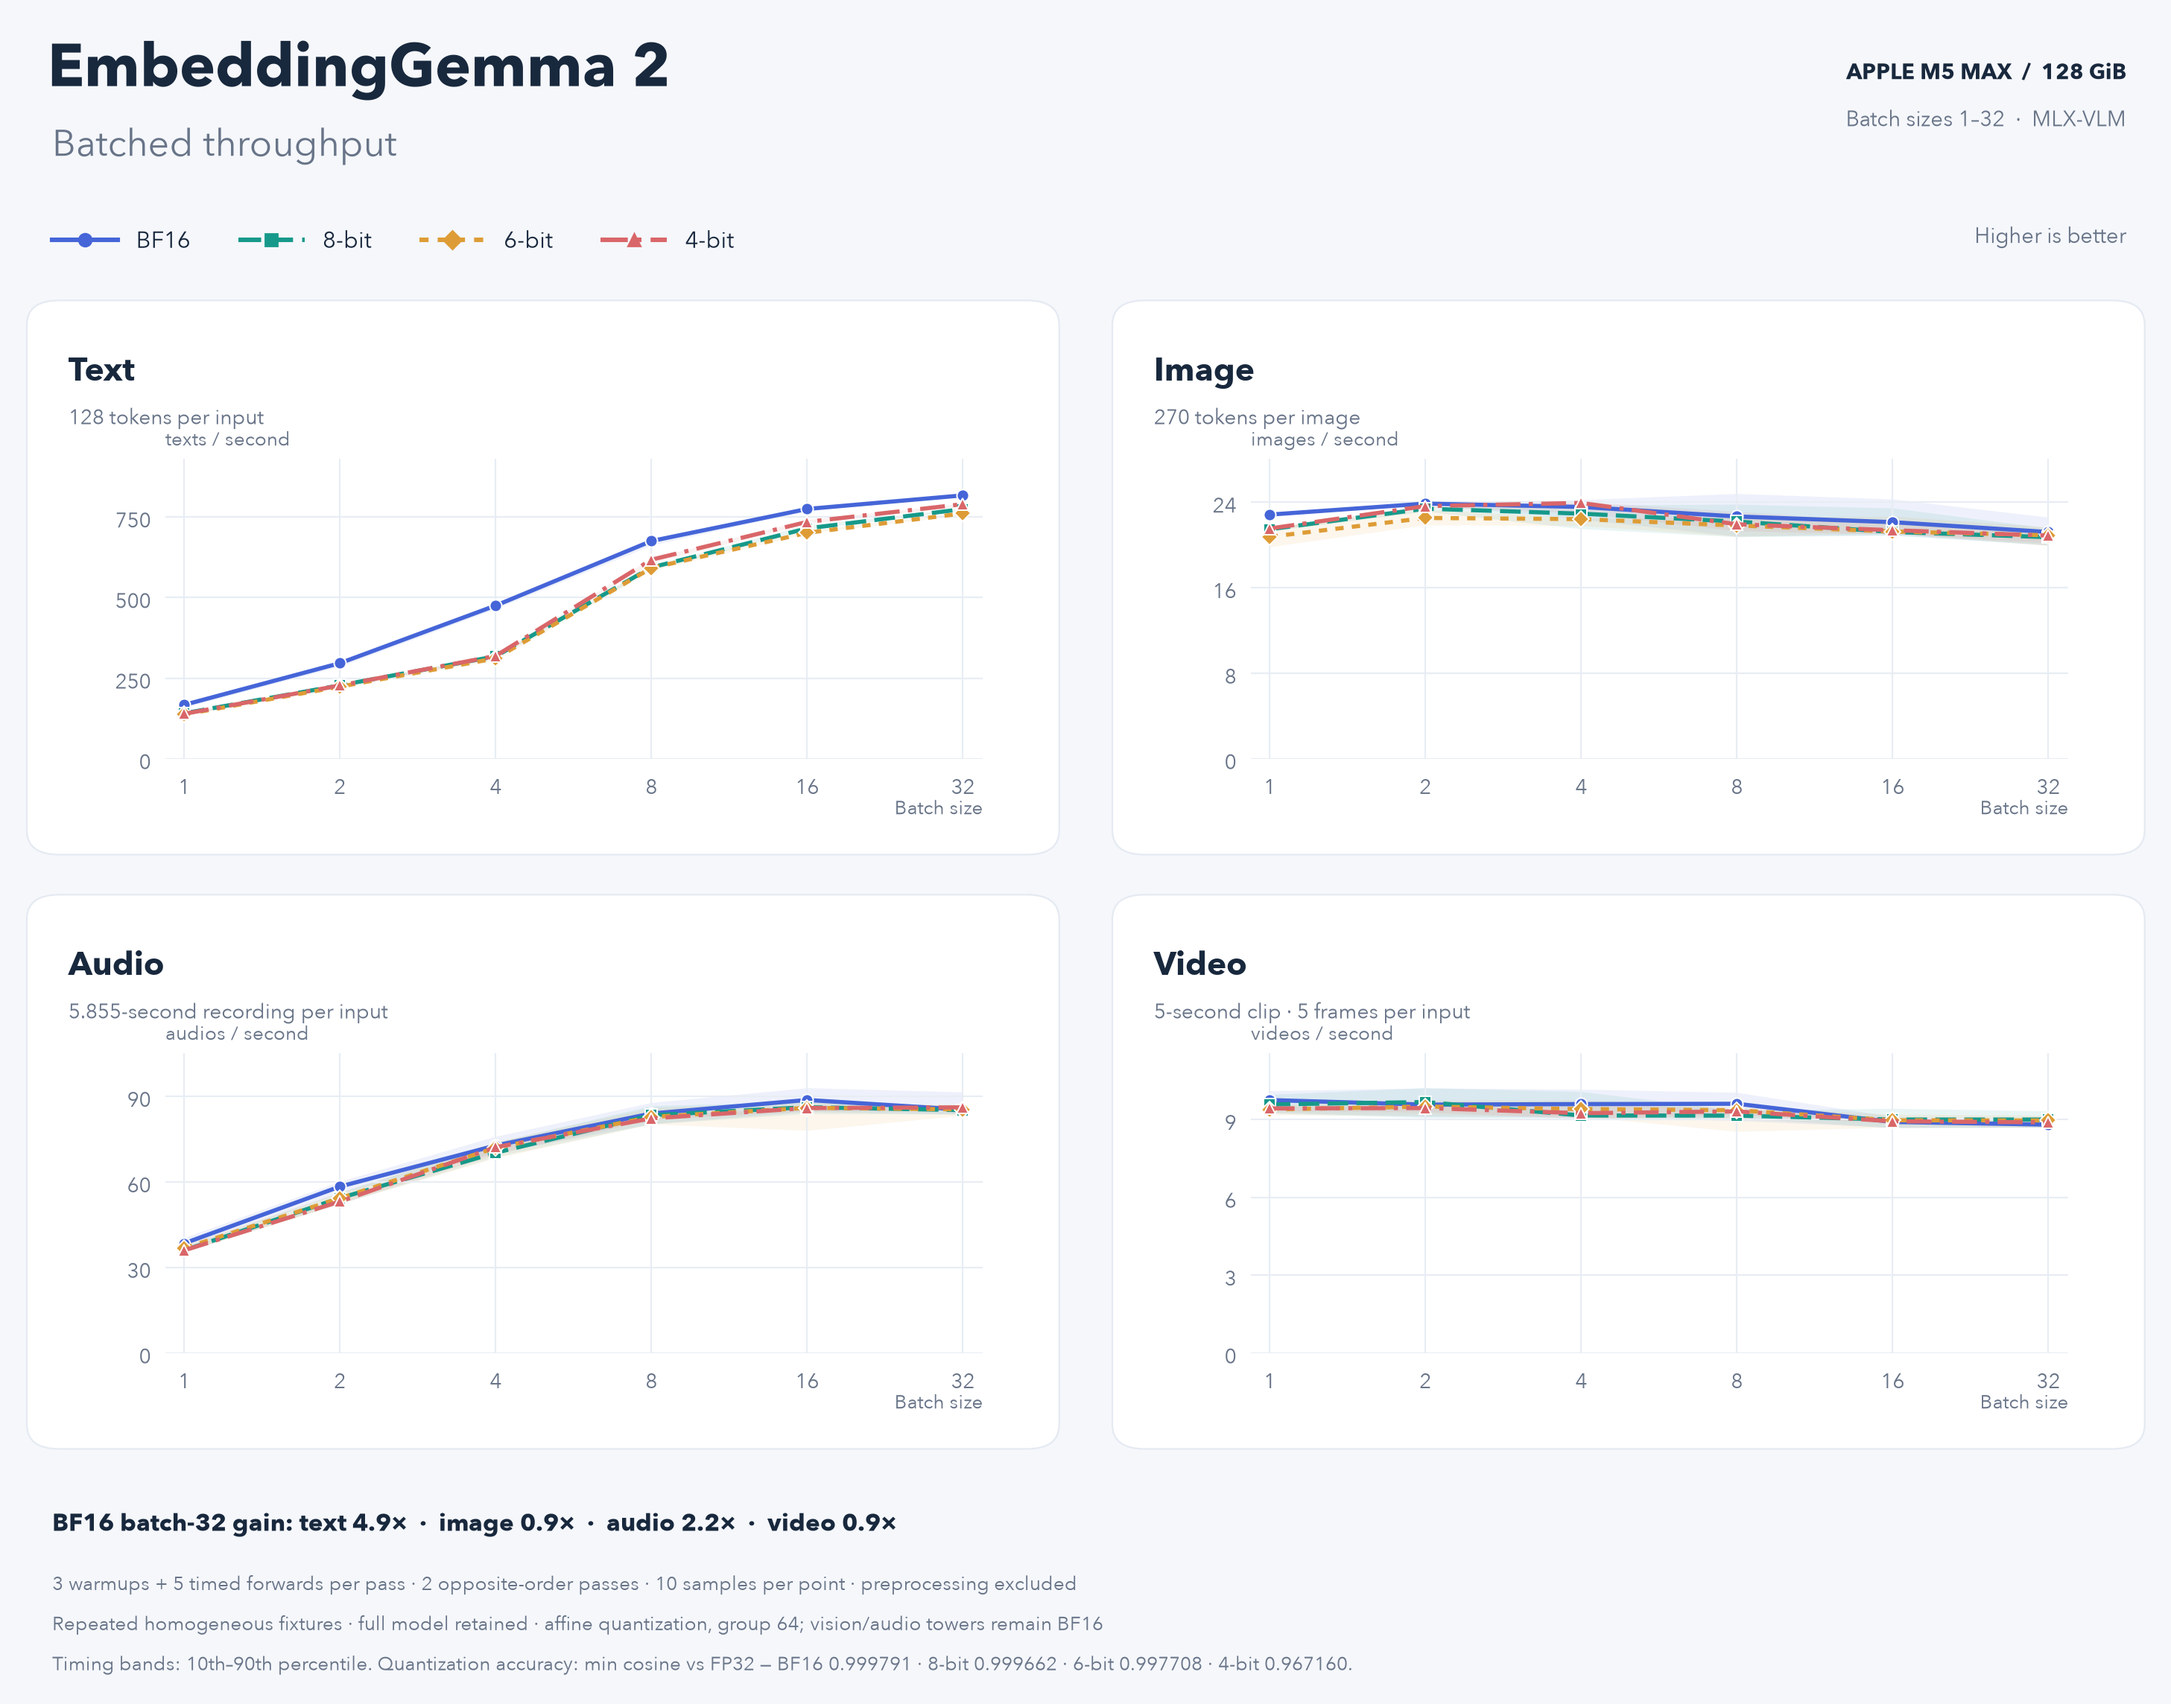
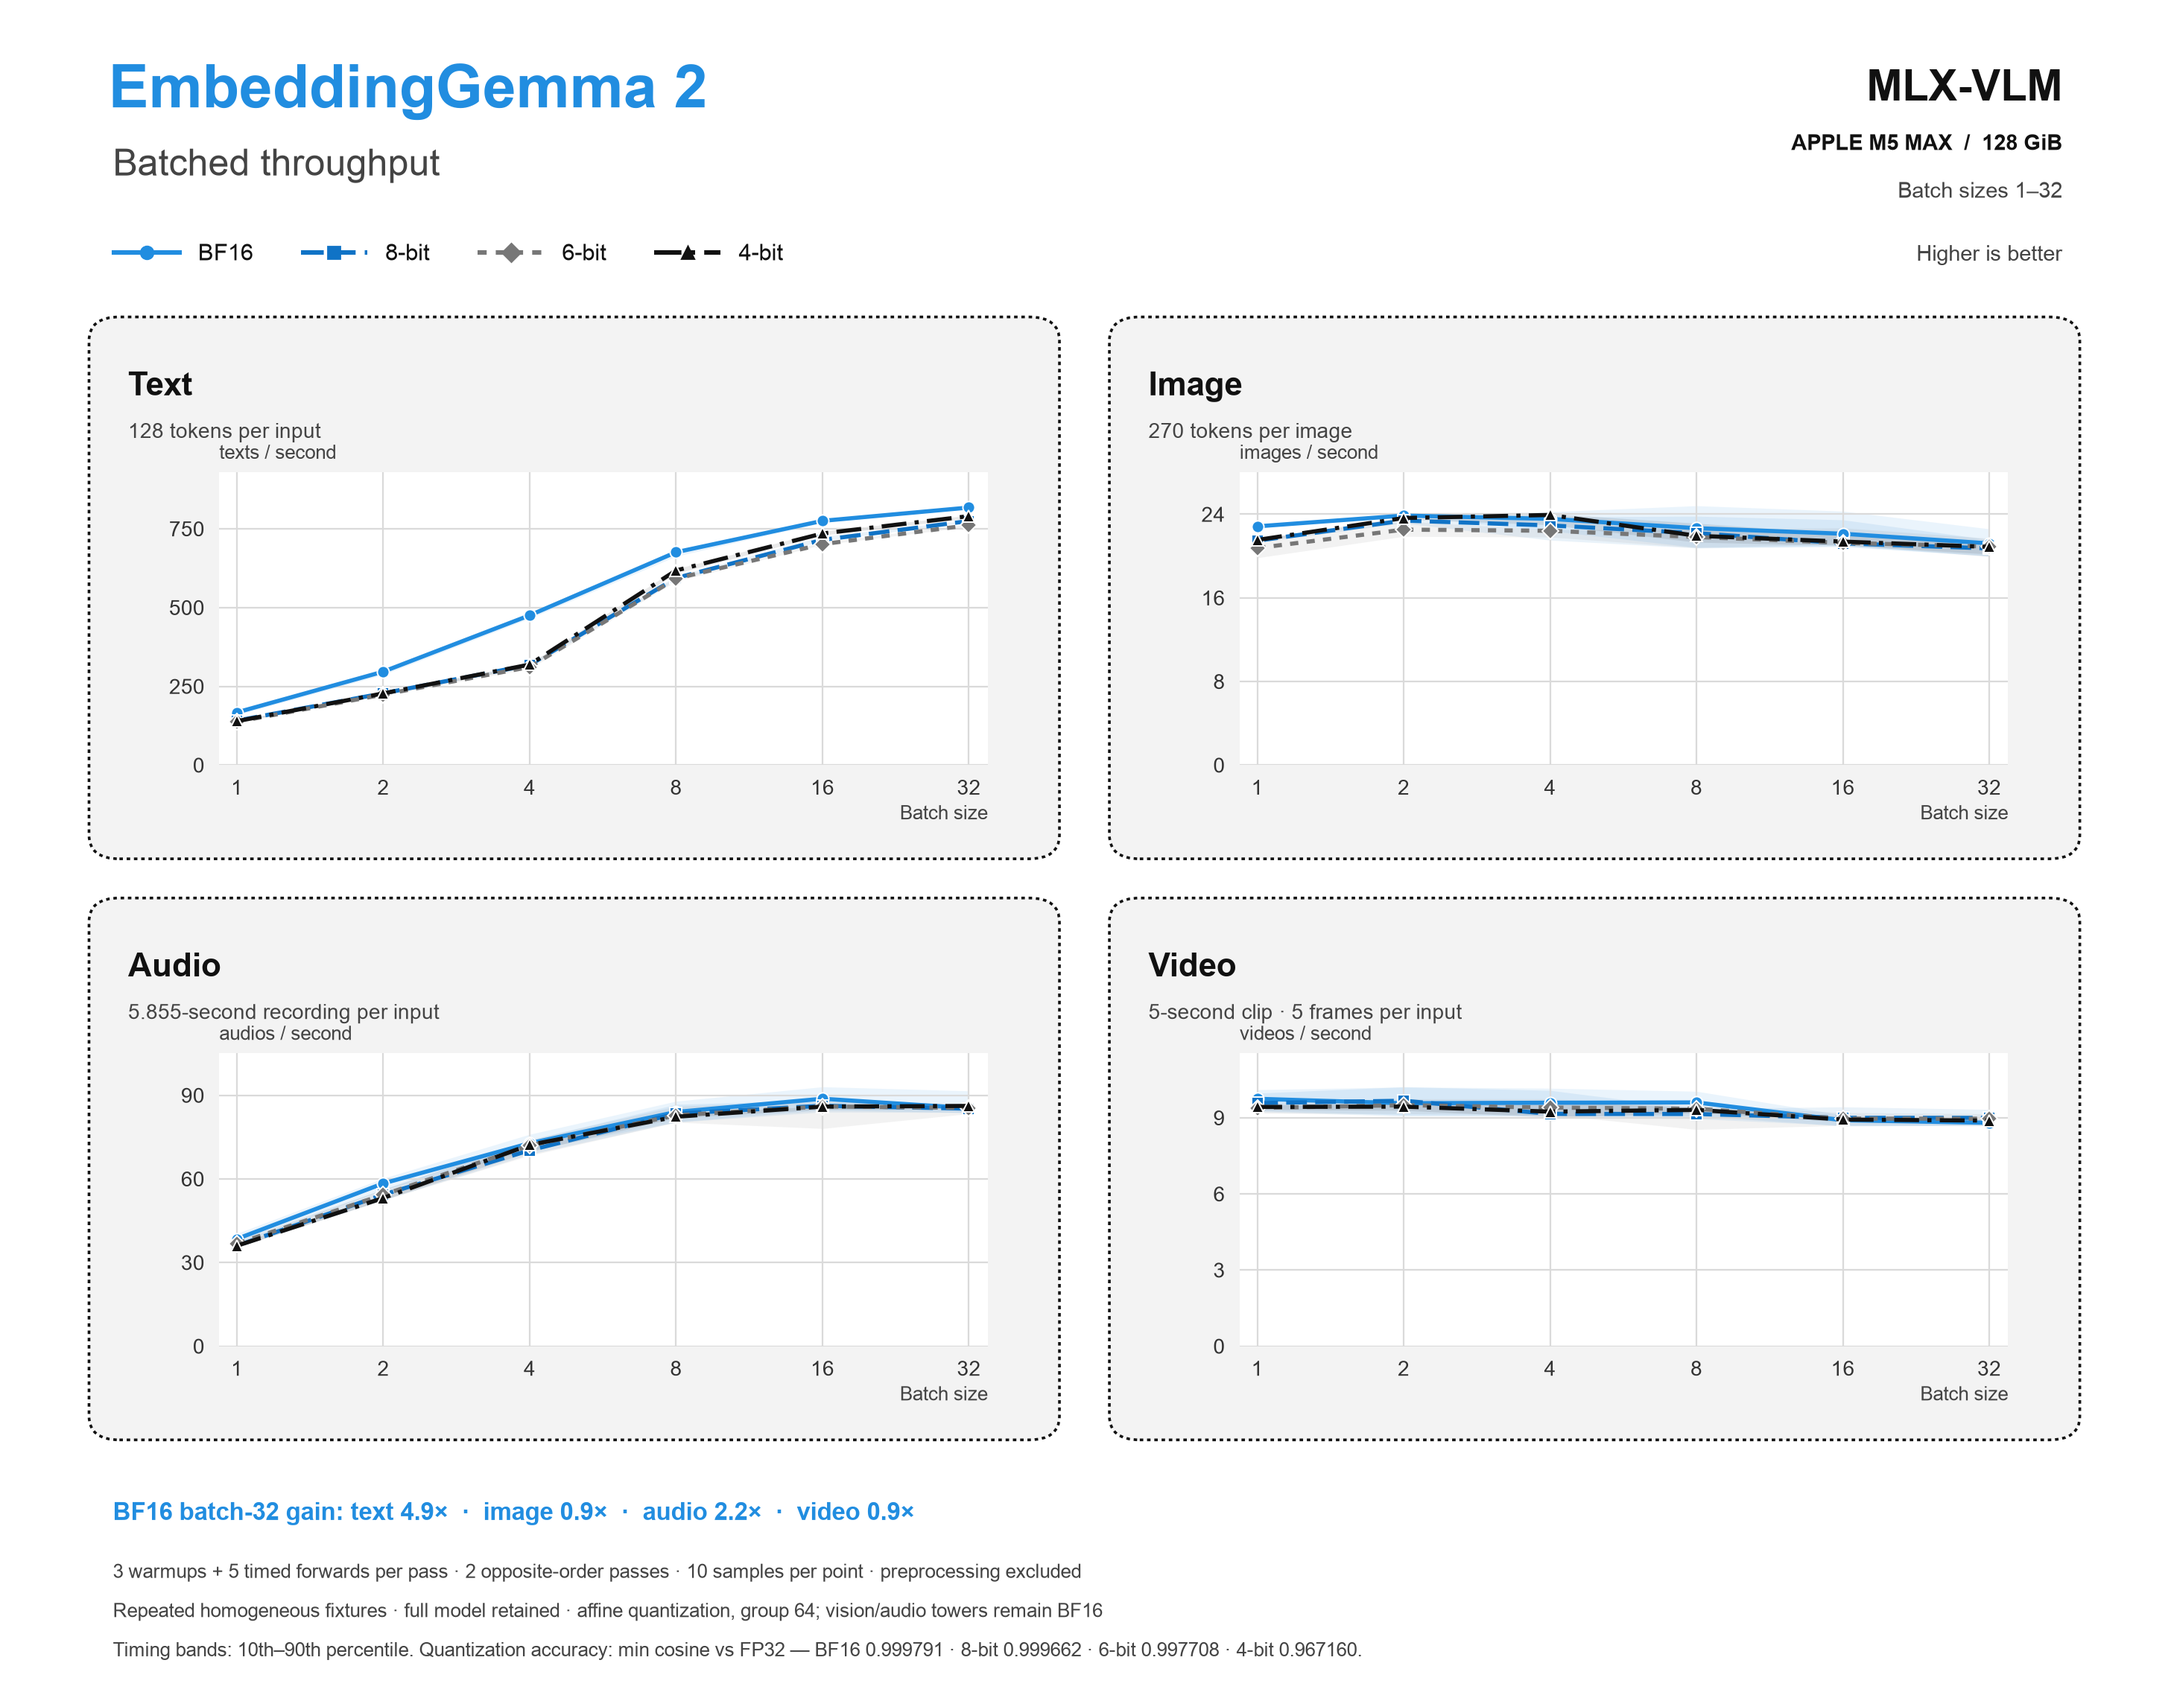
Match throughput chart to the architecture diagram style

diff --git a/website/blog/embeddinggemma-2.html b/website/blog/embeddinggemma-2.html
@@ -162,10 +162,10 @@
             <p>A batch of 32 short texts completed in approximately <strong>0.039 seconds</strong>. Longer text reached its best measured BF16 throughput at a smaller batch size: 512-token inputs peaked at approximately <strong>190 texts per second with batch 8</strong>.</p>
             <p>Audio also benefited from batching, reaching its best measured BF16 throughput at batch 16. Image and video workloads behaved differently. Their throughput stayed roughly flat or declined, while memory consumption increased. For video, peak active memory grew from approximately 3.10 GB at batch 1 to 33.66 GB at batch 32. <a href="https://github.com/Blaizzy/mlx-vlm/blob/main/mlx_vlm/models/embedding_gemma2/BATCHED_BENCHMARKS.md">Detailed batch results</a></p>
             <figure class="article-figure">
-            <a href="../assets/blog/embeddinggemma-2-throughput.png" aria-label="Open the full-size EmbeddingGemma 2 throughput chart">
-            <img src="../assets/blog/embeddinggemma-2-throughput.png" alt="Batched throughput for text, image, audio, and video across BF16, 8-bit, 6-bit, and 4-bit precision on an Apple M5 Max. Text and audio throughput rise with batch size, while image and video throughput remain roughly flat." width="2914" height="2288" loading="lazy" />
+            <a href="../assets/blog/embeddinggemma-2-throughput.png?v=2" aria-label="Open the full-size EmbeddingGemma 2 throughput chart">
+            <img src="../assets/blog/embeddinggemma-2-throughput.png?v=2" alt="Batched throughput for text, image, audio, and video across BF16, 8-bit, 6-bit, and 4-bit precision on an Apple M5 Max. Text and audio throughput rise with batch size, while image and video throughput remain roughly flat." width="2914" height="2288" loading="lazy" />
             </a>
-            <figcaption>EmbeddingGemma 2 batched throughput on MLX-VLM. <a href="../assets/blog/embeddinggemma-2-throughput.png">View full-size chart <span aria-hidden="true">↗</span></a></figcaption>
+            <figcaption>EmbeddingGemma 2 batched throughput on MLX-VLM. <a href="../assets/blog/embeddinggemma-2-throughput.png?v=2">View full-size chart <span aria-hidden="true">↗</span></a></figcaption>
             </figure>
             <h2 id="quantization">Quantization and fidelity</h2>
             <p>Quantization primarily reduced weight storage in these tests. The standard conversion policy quantized the text encoder and audio projection while retaining the vision encoder, audio encoder, and vision projection in BF16. Consequently, whole-model savings were smaller than the savings within the text encoder.</p>

diff --git a/website/index.html b/website/index.html
@@ -268,7 +268,7 @@
             <a class="text-link" href="blog/embeddinggemma-2.html">Read the article <span aria-hidden="true">↗</span></a>
           </div>
           <a class="blog-card-image" href="blog/embeddinggemma-2.html" tabindex="-1" aria-hidden="true">
-            <img src="assets/blog/embeddinggemma-2-throughput.png" alt="" width="2914" height="2288" loading="lazy" />
+            <img src="assets/blog/embeddinggemma-2-throughput.png?v=2" alt="" width="2914" height="2288" loading="lazy" />
           </a>
         </article>
       </section>

diff --git a/website/blog.html b/website/blog.html
@@ -77,7 +77,7 @@
             <a class="text-link" href="blog/embeddinggemma-2.html">Read the article <span aria-hidden="true">↗</span></a>
           </div>
           <a class="blog-card-image" href="blog/embeddinggemma-2.html" tabindex="-1" aria-hidden="true">
-            <img src="assets/blog/embeddinggemma-2-throughput.png" alt="" width="2914" height="2288" loading="lazy" />
+            <img src="assets/blog/embeddinggemma-2-throughput.png?v=2" alt="" width="2914" height="2288" loading="lazy" />
           </a>
         </article>
       </section>
